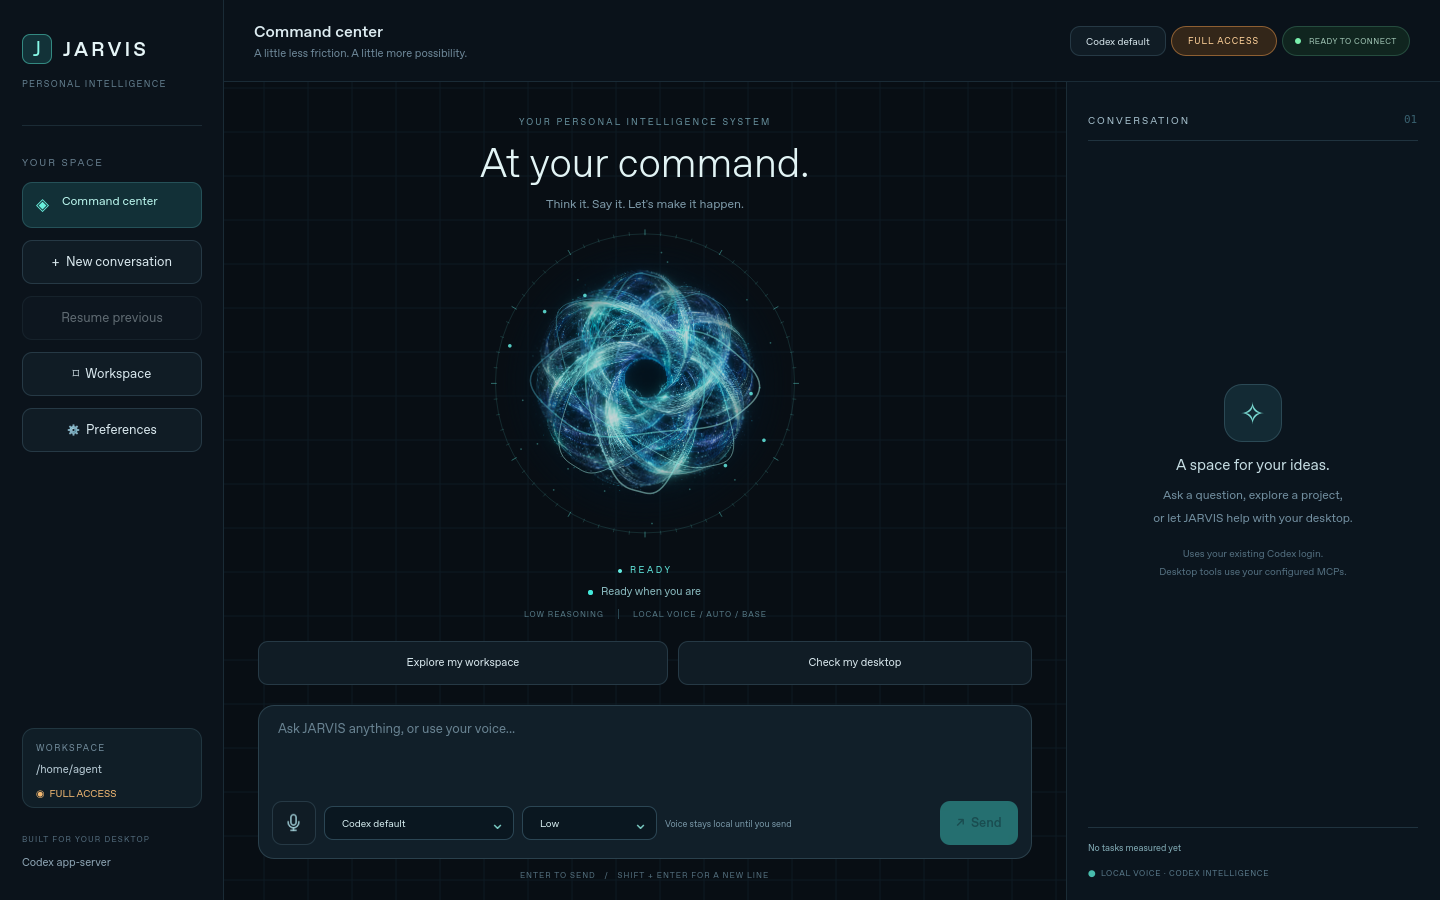
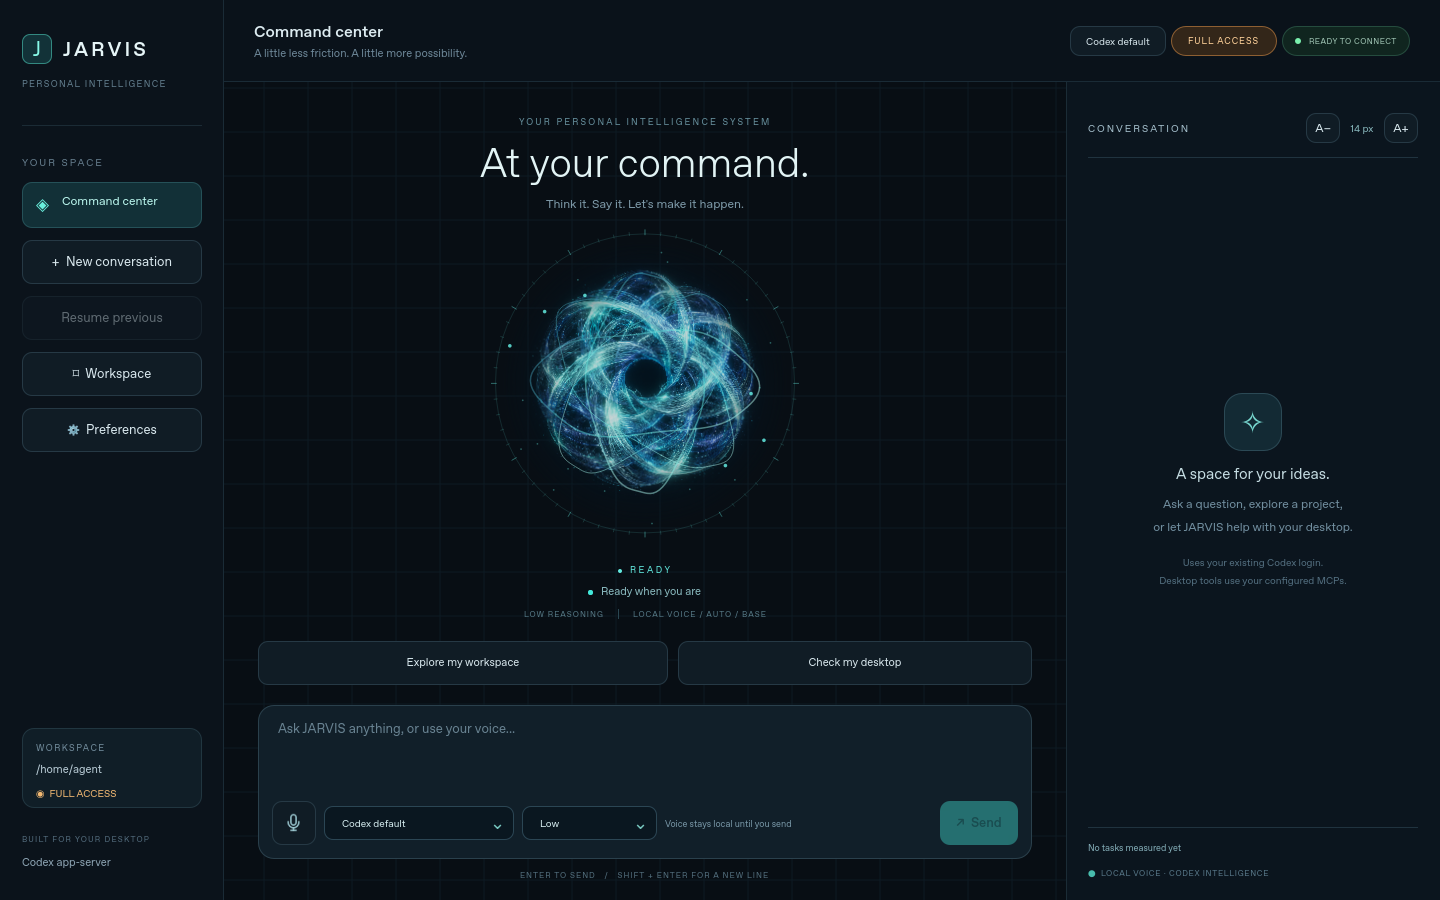
Add persistent conversation text size controls

Changed region(s): [[0.8125, 0.4356, 0.9375, 0.6533], [0.75, 0.1244, 0.8125, 0.1556]]

diff --git a/gui/jarvis_gui/ui/Main.qml b/gui/jarvis_gui/ui/Main.qml
@@ -321,10 +321,30 @@ ApplicationWindow {
                     ColumnLayout {
                         anchors.fill: parent; anchors.margins: 22; spacing: 14
                         RowLayout {
-                            Layout.fillWidth: true; Layout.topMargin: 9
+                            Layout.fillWidth: true; Layout.topMargin: 9; spacing: 6
                             Text { text: "CONVERSATION"; color: "#a5bfcc"; font.pixelSize: 10; font.letterSpacing: 2 }
                             Item { Layout.fillWidth: true }
-                            Text { text: "01"; color: "#38606f"; font.pixelSize: 11; font.family: "monospace" }
+                            HudButton {
+                                objectName: "conversationFontSmaller"
+                                text: "A−"; implicitWidth: 34; implicitHeight: 30; font.pixelSize: 12
+                                enabled: bridge.conversationFontSize > 12
+                                Accessible.name: "Decrease conversation text size"
+                                onClicked: bridge.setConversationFontSize(bridge.conversationFontSize - 2)
+                                ToolTip.visible: hovered; ToolTip.text: "Smaller conversation text"
+                            }
+                            Text {
+                                Layout.preferredWidth: 32; horizontalAlignment: Text.AlignHCenter
+                                text: bridge.conversationFontSize + " px"; color: "#89b9be"; font.pixelSize: 10
+                                Accessible.name: "Conversation text size: " + bridge.conversationFontSize + " pixels"
+                            }
+                            HudButton {
+                                objectName: "conversationFontLarger"
+                                text: "A+"; implicitWidth: 34; implicitHeight: 30; font.pixelSize: 12
+                                enabled: bridge.conversationFontSize < 28
+                                Accessible.name: "Increase conversation text size"
+                                onClicked: bridge.setConversationFontSize(bridge.conversationFontSize + 2)
+                                ToolTip.visible: hovered; ToolTip.text: "Larger conversation text"
+                            }
                         }
                         Rectangle { Layout.fillWidth: true; height: 1; color: "#20333f" }
                         Item {
@@ -362,8 +382,9 @@ ApplicationWindow {
                                             font.pixelSize: 9; font.letterSpacing: 1.7
                                         }
                                         TextEdit {
+                                            objectName: "conversationMessageBody"
                                             width: parent.width
-                                            text: messageText; color: "#cbdde5"; font.pixelSize: 12
+                                            text: messageText; color: "#cbdde5"; font.pixelSize: bridge.conversationFontSize
                                             readOnly: true; selectByMouse: true; wrapMode: TextEdit.Wrap
                                             textFormat: TextEdit.PlainText
                                             Accessible.name: messageRole + " message"

diff --git a/gui/tests/test_window.py b/gui/tests/test_window.py
@@ -58,12 +58,49 @@ class TestWindow(unittest.TestCase):
                 APP.processEvents()
                 self.assertTrue(button.property("enabled"))
                 self.assertTrue(QMetaObject.invokeMethod(button, "clicked"))
+                smaller = window.findChild(QObject, "conversationFontSmaller")
+                larger = window.findChild(QObject, "conversationFontLarger")
+                self.assertTrue(backend.busy)
+                self.assertTrue(QMetaObject.invokeMethod(larger, "clicked"))
+                self.assertEqual(backend.conversationFontSize, 16)
+                self.assertTrue(QMetaObject.invokeMethod(smaller, "clicked"))
                 deadline = time.monotonic() + 5
                 while backend.busy and time.monotonic() < deadline:
                     QTest.qWait(20)
                 self.assertFalse(backend.busy)
                 self.assertEqual(backend.messages[-1]["text"], "Check the workspace")
                 self.assertEqual(composer.property("text"), "")
+                self.assertEqual(backend.conversationFontSize, 14)
+                history, pid = list(backend.messages), backend.process.processId()
+                composer.setProperty("text", "Keep this draft")
+                self.assertTrue(QMetaObject.invokeMethod(smaller, "clicked"))
+                self.assertEqual(backend.conversationFontSize, 12)
+                self.assertFalse(smaller.property("enabled"))
+                for _ in range(8):
+                    self.assertTrue(QMetaObject.invokeMethod(larger, "clicked"))
+                QTest.qWait(80)
+                self.assertEqual(backend.conversationFontSize, 28)
+                self.assertFalse(larger.property("enabled"))
+                # ListView delegates belong to its visual tree, not the window's QObject tree.
+                items = [window.findChild(QObject, "conversation").property("contentItem")]
+                bodies = []
+                while items:
+                    item = items.pop()
+                    items.extend(item.childItems())
+                    if item.objectName() == "conversationMessageBody":
+                        bodies.append(item)
+                self.assertGreaterEqual(len(bodies), 2)
+                self.assertTrue(all(body.property("font").pixelSize() == 28 for body in bodies))
+                self.assertEqual(backend.messages, history)
+                self.assertEqual(backend.process.processId(), pid)
+                self.assertEqual(composer.property("text"), "Keep this draft")
+                settings.sync()
+                reopened = Backend(QSettings(str(root / "settings.ini"), QSettings.Format.IniFormat), codex_home_override=full_home)
+                try:
+                    self.assertEqual(reopened.conversationFontSize, 28)
+                finally:
+                    reopened.shutdown()
+                    reopened.deleteLater()
                 popup = window.findChild(QObject, "preferences")
                 self.assertTrue(QMetaObject.invokeMethod(popup, "open"))
                 QTest.qWait(100)
@@ -102,7 +139,7 @@ class TestWindow(unittest.TestCase):
                 image = QQuickWindow.grabWindow(window)
                 self.assertFalse(image.isNull())
                 self.assertEqual(image.width(), 1060 * window.devicePixelRatio())
-                for control in (inline_model, inline_effort, button):
+                for control in (inline_model, inline_effort, button, smaller, larger):
                     position = control.mapToScene(QPointF(0, 0))
                     self.assertLessEqual(position.x() + control.width(), window.width())
                     self.assertLessEqual(position.y() + control.height(), window.height())

diff --git a/gui/jarvis_gui/backend.py b/gui/jarvis_gui/backend.py
@@ -25,6 +25,7 @@ from .access import codex_home, access_file, read_access, write_access
 
 class Backend(QObject):
     changed = Signal()
+    conversationFontSizeChanged = Signal()
     messagesChanged = Signal()
     transcriptReady = Signal(str)
     transcriptPreview = Signal(str)
@@ -32,6 +33,11 @@ class Backend(QObject):
     def __init__(self, settings=None, *, codex_command=None, voice_command=None, codex_home_override=None, start_hidden=False, tray_available=False, access_path=None):
         super().__init__()
         self.settings = settings or QSettings("Jarvis", "Desktop")
+        try:
+            font_size = int(self.settings.value("conversationFontSize", 14))
+        except (TypeError, ValueError):
+            font_size = 14
+        self._conversation_font_size = max(12, min(28, font_size))
         self._start_hidden = start_hidden
         self._tray_available = tray_available
         self.wake_control = WakeControl(self.settings, self)
@@ -144,6 +150,18 @@ class Backend(QObject):
     @Property("QVariantList", notify=messagesChanged)
     def messages(self):
         return self._messages
+
+    @Property(int, notify=conversationFontSizeChanged)
+    def conversationFontSize(self):
+        return self._conversation_font_size
+
+    @Slot(int)
+    def setConversationFontSize(self, size):
+        size = max(12, min(28, size))
+        if size != self._conversation_font_size:
+            self._conversation_font_size = size
+            self.settings.setValue("conversationFontSize", size)
+            self.conversationFontSizeChanged.emit()
 
     @Property(QObject, constant=True)
     def wake(self):

diff --git a/changes.md b/changes.md
@@ -9,6 +9,25 @@ machine configuration here. Dates below are report dates; Git history remains
 the source of commit timestamps.
 
 
+
+## 2026-10-15 — Adjustable conversation text size (GUI 0.4.1)
+
+- Added A- / A+ buttons and a size indicator beside CONVERSATION in the right
+  panel. Requests, streamed responses and status text update immediately from
+  12 to 28 pixels, in two-pixel steps. Increased the default from 12 to 14 pixels.
+- Persisted `conversationFontSize` in GUI settings. Changing it leaves model,
+  access, connection, conversation and composer draft intact, and is available
+  during active requests. Added dedicated notification rather than runtime refresh.
+- Updated the actual QML window check to exercise both buttons, disabled limits,
+  rendered user/assistant fonts, persistence, unchanged history/runtime/draft,
+  and compact-window control bounds. Updated the desktop guide, version/lock
+  and screenshots; no new dependencies.
+- Local verification: all 43 Qt tests passed, including actual-window font
+  changes during an active request and restart persistence. Actual application
+  smoke passed; inspected full and compact (1060x760) renders with 20 px sample
+  messages. Python syntax, frozen lock and whitespace checks passed. Fresh
+  automatic CI results will be recorded after publication.
+
 ## 2026-10-15 — One Codex account, default Full Access and composer controls
 
 - GUI, Linux/Windows CLI and legacy Full Access commands now reuse the existing

diff --git a/docs/AI_HANDOFF.md b/docs/AI_HANDOFF.md
@@ -1,6 +1,15 @@
 # JARVIS — AI MAINTAINER HANDOFF
 _Last reconciled on 2026-10-15; see the newest entry for current behavior._
 
+**Conversation readability update — 2026-10-15 (GUI 0.4.1):** A- / A+ controls
+in the right panel header change all message text between 12 and 28 px (default
+14), including existing and streamed messages. Backend `conversationFontSize`
+has its own notification and saved QSettings value; changing it does not reset
+runtime, thread or draft and is available while busy. The actual-window test
+checks controls, rendered message fonts, saved size and compact bounds. See
+[the desktop guide](desktop-app.md#conversation-text-size) and the newest
+[change-report entry](../changes.md) for verification.
+
 **Shared account/access update — 2026-10-15 (GUI 0.4.0):** the user's latest
 request supersedes all older separate-profile, second-login, acknowledgement
 and off-by-default Full Access instructions below. GUI, normal CLI and legacy

diff --git a/docs/desktop-app.md b/docs/desktop-app.md
@@ -9,6 +9,16 @@ not a signed standalone EXE, AppImage, DEB or RPM release.
 
 ![JARVIS desktop command center](images/jarvis-desktop.png)
 
+## Conversation text size
+
+Use **A- / A+** beside **CONVERSATION** at the top of the right-hand panel to
+change message text from 12 to 28 pixels in two-pixel steps. The default is 14
+pixels. The change applies immediately to existing and incoming requests,
+responses and status messages, and is saved for the next launch. It works while
+an answer streams and preserves the conversation, connection and unsent draft.
+
+![Larger text in the conversation panel](images/jarvis-conversation-size.png)
+
 ## Animated activity core
 
 The central J has been replaced with an original woven-light energy sculpture.
